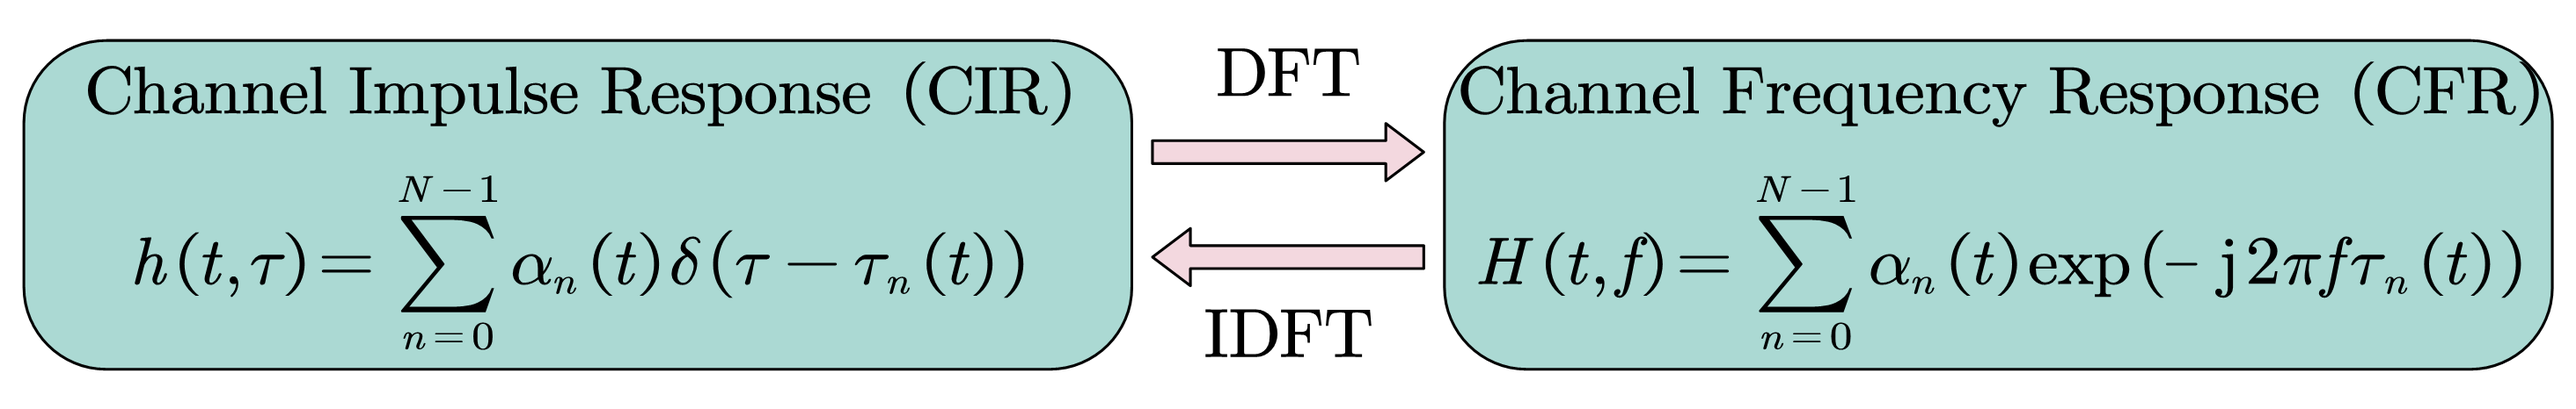
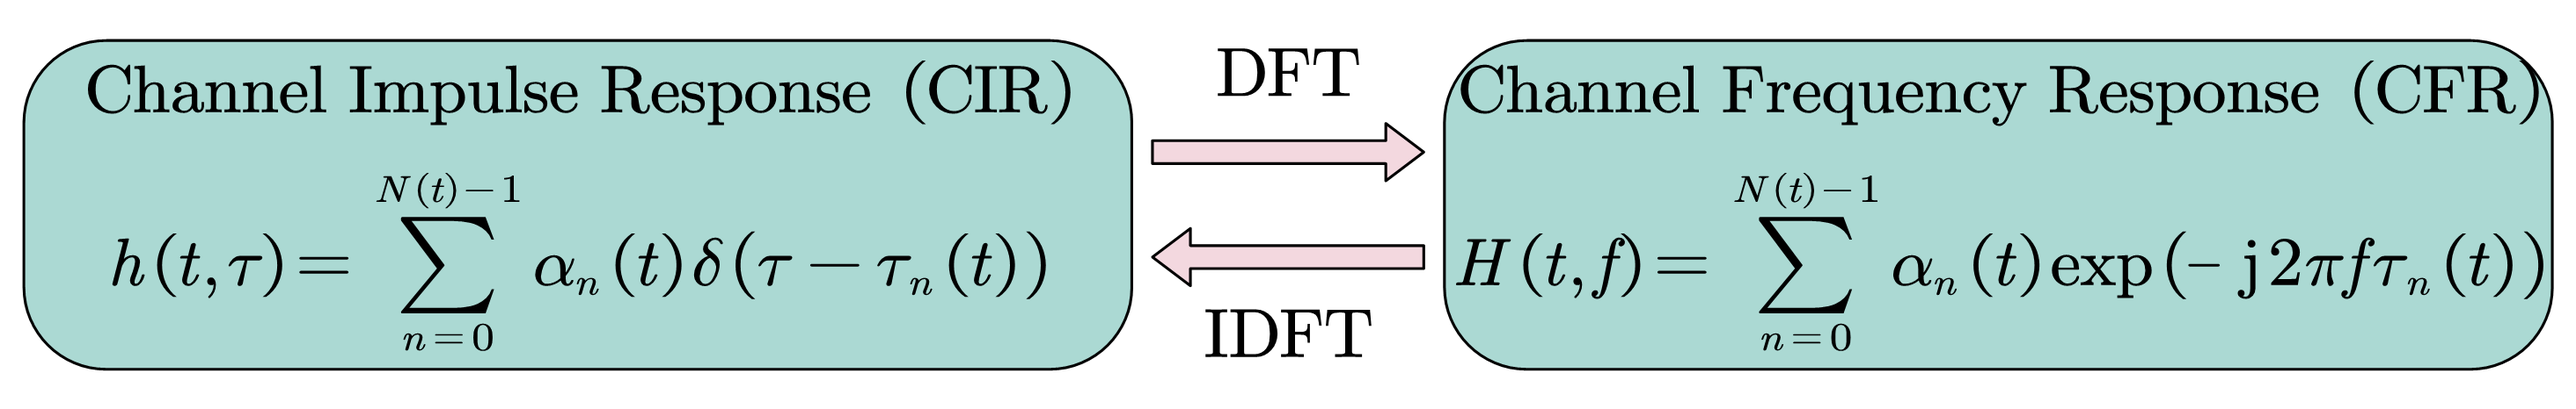
fix typos

diff --git a/content/post/channel.md b/content/post/channel.md
@@ -41,19 +41,19 @@ typora-root-url: ../../static
 
     We have CIR in below form:
     $$
-    h(\tau)=\sum_{i=0}^{N-1}\alpha_0\delta(\tau-\tau_i)\rightarrow \mathbf{h}=[\alpha_0,\ldots,\alpha_{N-1}].
+    h(t,\tau)=\sum_{n=0}^{N(t)-1}\alpha_n(t)\delta(\tau-\tau_n(t))\rightarrow \mathbf{h}=[\alpha_0(t),\ldots,\alpha_{N-1}(t)].
     $$
 
     Do DFT at $k$:                                                                                                                      
     $$
-    H(k)=\sum_{n=0}^{N-1}\alpha_n\exp(-\frac{\mathrm{j2\pi kn}}{N}).
+    H(t,k)=\sum_{n=0}^{N(t)-1}\alpha_n(t)\exp(-\frac{\mathrm{j2\pi kn}}{N}).
     $$
 
     Substitute $k$ with $f$ at the left of the equation, and substitute $k$ with $f/\Delta f$ at the right side of the equation, we have:
     $$
     \begin{aligned}
-    H(f)&=\sum_{n=0}^{N-1}\alpha_n\exp(-\frac{\mathrm{j2\pi f/\Delta f n}}{N}), \\
-    &\xlongequal[]{\Delta f =1/(N\Delta t)}\sum_{n=0}^{N-1}\alpha_n\exp(-\mathrm{j2\pi f\tau_n}).
+    H(t,f)&=\sum_{n=0}^{N(t)-1}\alpha_n(t)\exp(-\frac{\mathrm{j2\pi f/\Delta f n}}{N}), \\
+    &\xlongequal[]{\Delta f =1/(N\Delta t)}\sum_{n=0}^{N(t)-1}\alpha_n(t)\exp(-\mathrm{j2\pi f\tau_n(t)}).
     \end{aligned}
     $$
 
@@ -96,18 +96,18 @@ typora-root-url: ../../static
 
 + Real bandpass channel:
   $$
-  h(t,\tau)=\sum_{n=0}^{N-1}\alpha_{n}(t)\delta(\tau-\tau_n(t)),
+  h(t,\tau)=\sum_{n=0}^{N(t)-1}\alpha_{n}(t)\delta(\tau-\tau_n(t)),
   $$
   where:
 
   + $t$ and $\tau$: time domain and delay domain.
 
-  + $N$: number of multipaths.
+  + $N(t)$: number of multipaths at time slot $t$.
   + $\alpha_n(t)$ and $\tau_n(t)$: path loss (amplitude) and delay for $n$-th path at time slot $t$.
 
 + Equivalent complex baseband (lowpass) channel:
   $$
-  h(t,\tau)=\sum_{n=0}^{N-1}\alpha_n(t)\exp(-\mathrm{j}\phi_n(t))\delta(\tau-\tau_n(t)),
+  h(t,\tau)=\sum_{n=0}^{N(t)-1}\alpha_n(t)\exp(-\mathrm{j}\phi_n(t))\delta(\tau-\tau_n(t)),
   $$
 
   where $\phi_n(t)=2\pi f_\text{c} \tau_n(t)+\phi_{\text{D}_n}(t)$ denotes the phase of $n$-th path at time slot $t$, with $\phi_{\text{D}_n}(t)$ denotes the Doppler phase shif t.
